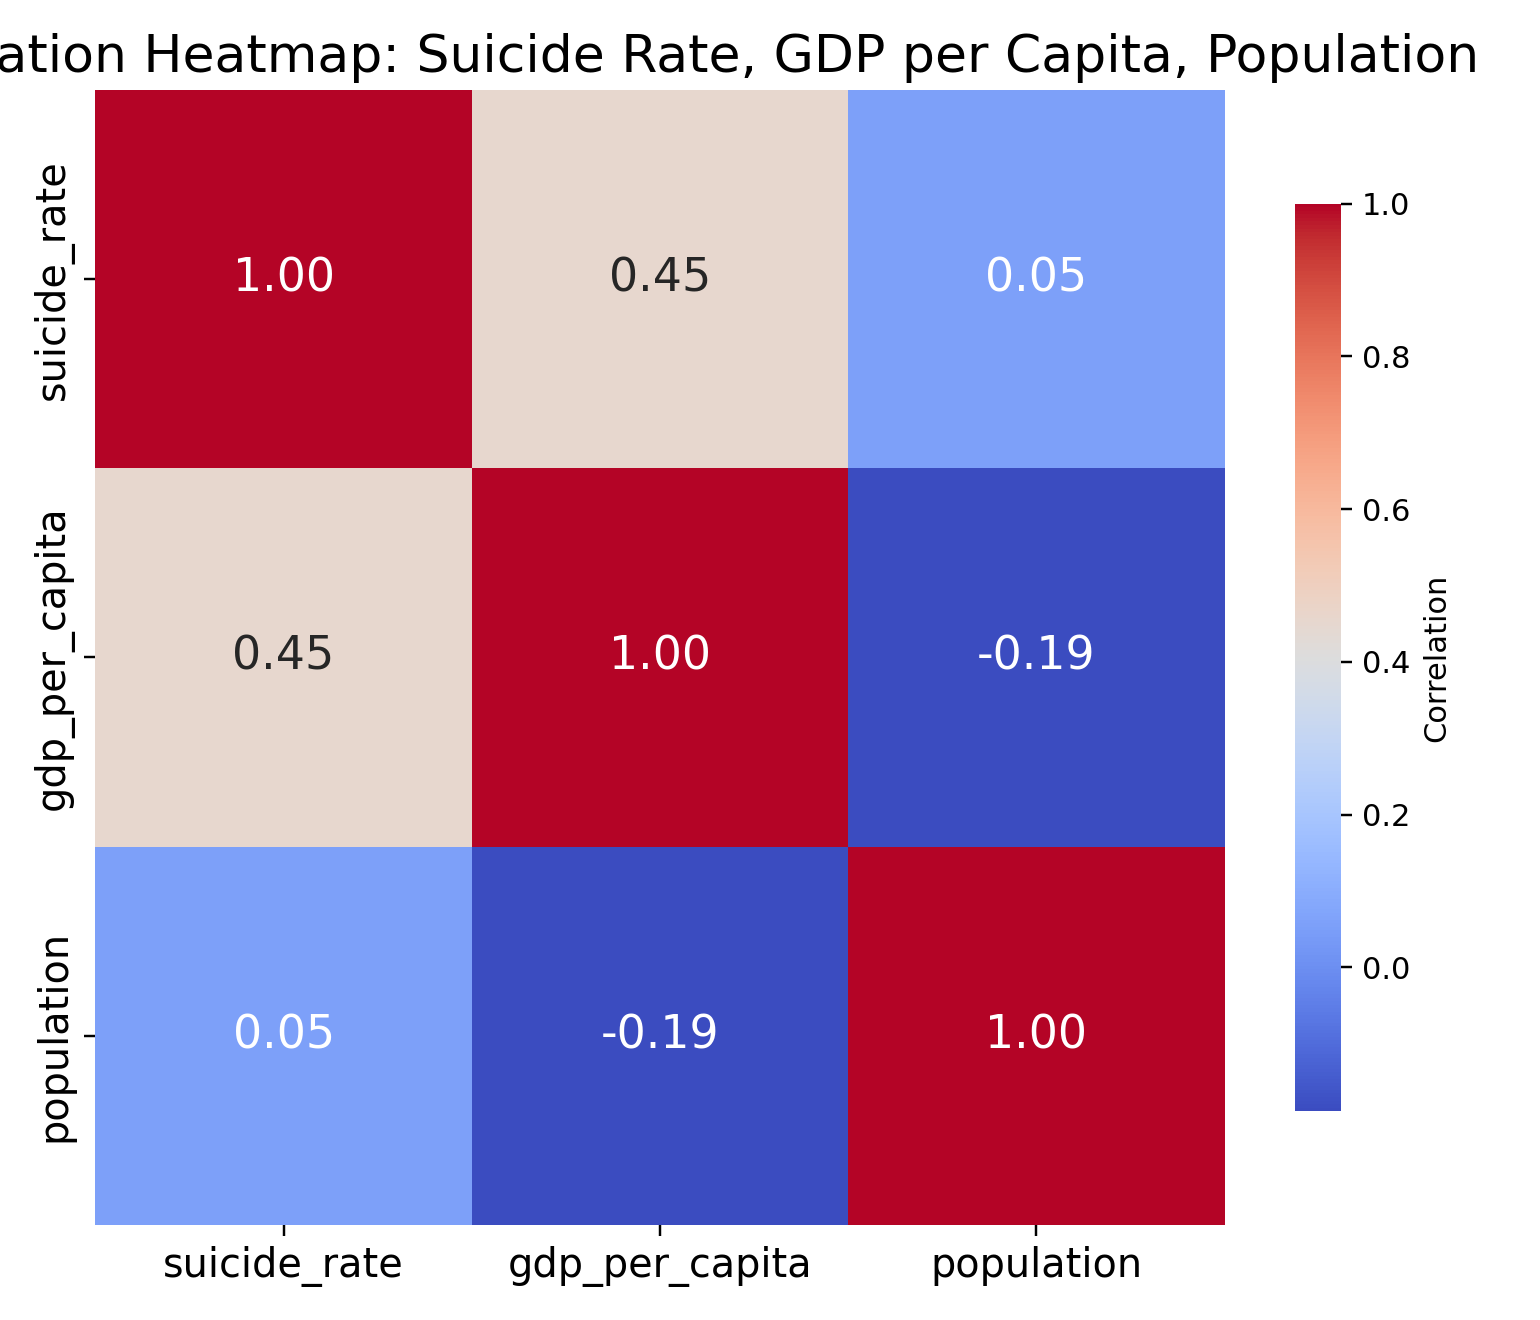
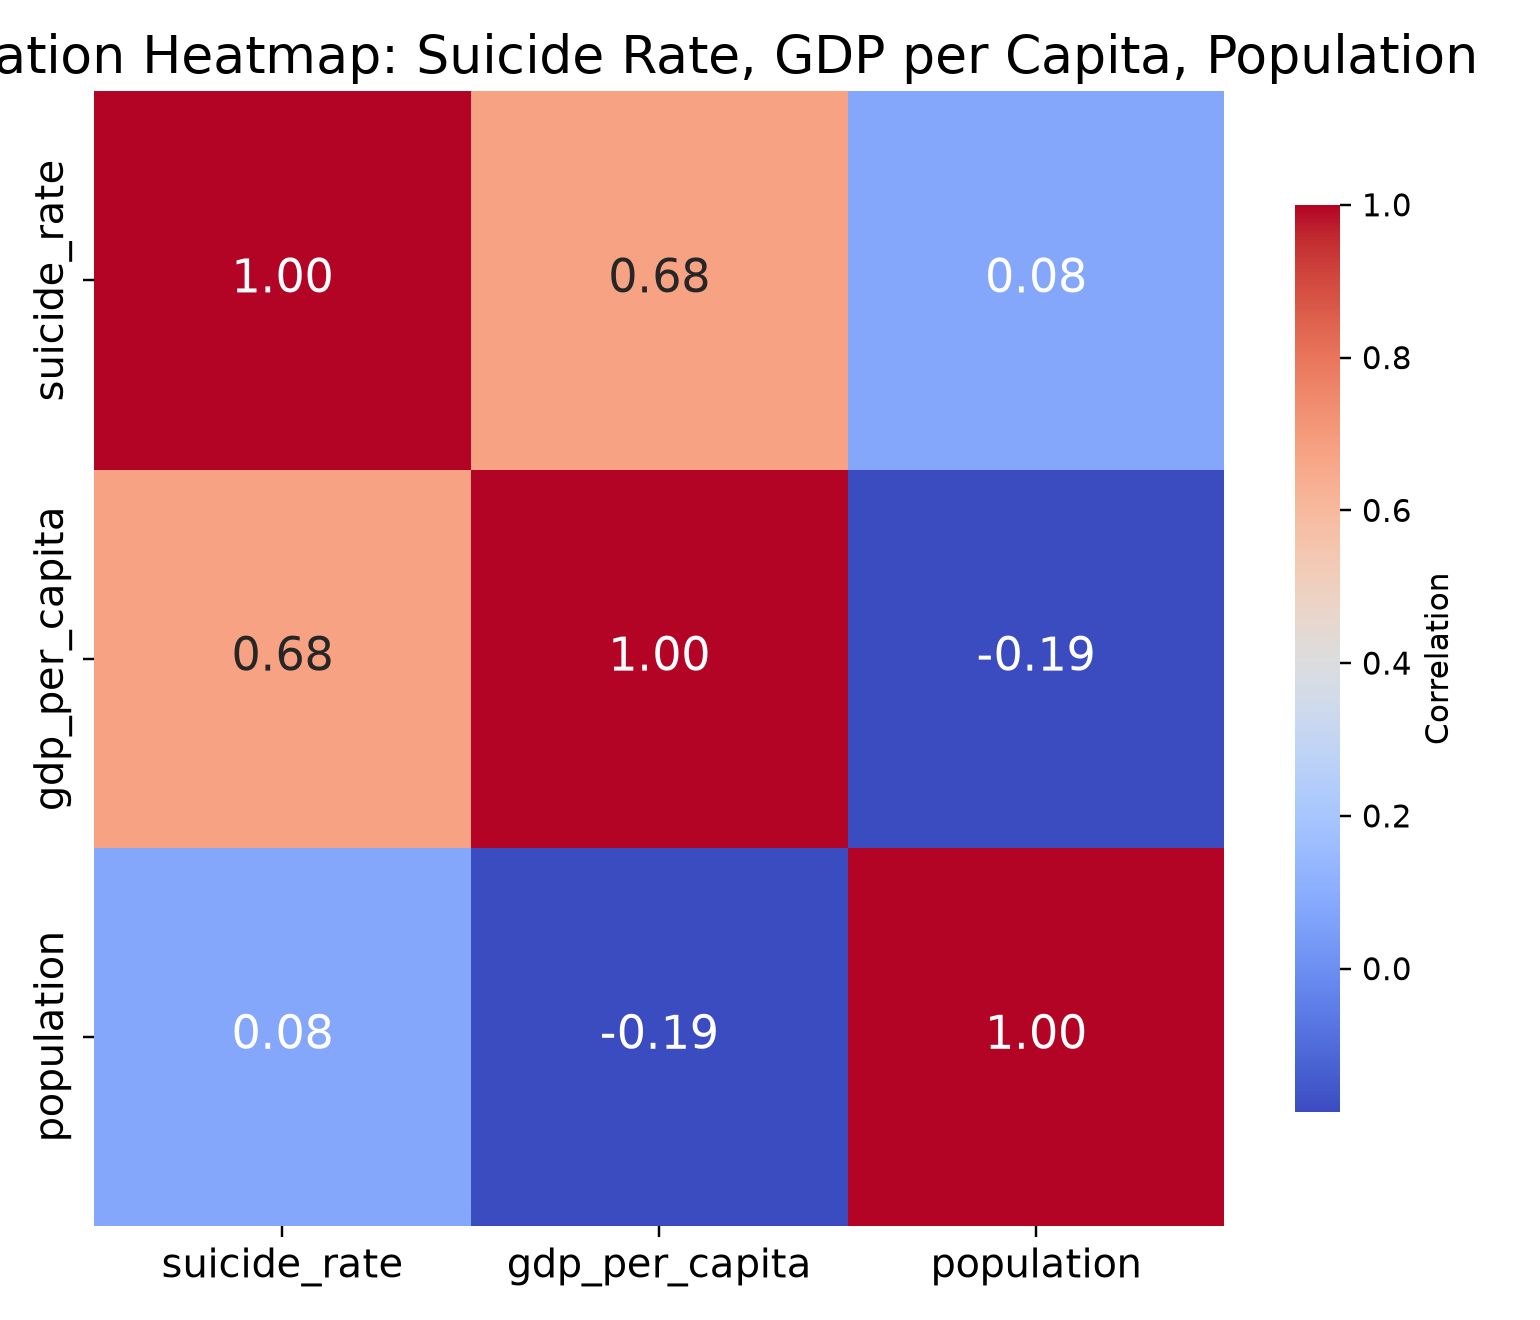
Correct suicide rate units and remove forecast claim

diff --git a/suicide_rate_analysis.py b/suicide_rate_analysis.py
@@ -74,13 +74,17 @@ def merge_with_gdp_population(suicide_df):
     # Clean column names
     gdp_df.columns = [c.strip().lower().replace(' ', '_') for c in gdp_df.columns]
     # Clean country names for both
+    suicide_df = suicide_df.copy()
+    if 'sex' in suicide_df.columns:
+        # Avoid counting male, female and both-sex rows as independent country-years.
+        suicide_df = suicide_df[suicide_df['sex'].astype(str).str.strip().str.lower() == 'both sexes']
     suicide_df['country'] = suicide_df['country'].str.strip().str.lower()
     gdp_df['country'] = gdp_df['country'].str.strip().str.lower()
     # Ensure year is int
     suicide_df['year'] = suicide_df['year'].astype(int)
     gdp_df['year'] = gdp_df['year'].astype(int)
     # Merge
-    merged = pd.merge(suicide_df, gdp_df, on=['country', 'year'], how='left')
+    merged = pd.merge(suicide_df, gdp_df, on=['country', 'year'], how='left', validate='many_to_one')
     if merged[['gdp_per_capita', 'population']].isnull().all(axis=None):
         print('Merge failed: No GDP/Population data matched. Check country/year alignment.')
     return merged
@@ -101,10 +105,11 @@ def clean_data(df):
     if not year_col or not rate_col:
         raise ValueError(f"Could not find 'year' or 'suicide_rate' columns in columns: {df.columns.tolist()}")
     # Handle missing values
-    df = df.dropna(subset=[year_col, rate_col])
+    df = df.dropna(subset=[year_col, rate_col]).copy()
     # Convert year to int
     df[year_col] = df[year_col].astype(int)
     df[rate_col] = pd.to_numeric(df[rate_col], errors='coerce')
+    df = df.dropna(subset=[rate_col])
     # Rename to standard
     df = df.rename(columns={year_col: 'year', rate_col: 'suicide_rate'})
     return df
@@ -132,14 +137,14 @@ def plot_suicide_trends(df):
     # Plot by gender
     if sexes is not None and len(sexes) > 0:
         ax = axes[0]
-        color_map = cm.get_cmap('Set1', len(sexes))
+        color_map = plt.get_cmap('Set1', len(sexes))
         for i, sex in enumerate(sexes):
             sub = df[df['sex'] == sex]
             if sub.empty:
                 continue
             sub_grouped = sub.groupby('year')['suicide_rate'].mean()
             ax.plot(sub_grouped.index, sub_grouped.values, marker='o', label=str(sex), color=color_map(i))
-        ax.set_title('Suicide Rates by Gender (Global Average)', fontsize=18)
+        ax.set_title('Suicide Rates by Gender (Unweighted Country Average)', fontsize=18)
         ax.set_xlabel('Year', fontsize=15)
         ax.set_ylabel('Suicide Rate', fontsize=15)
         ax.legend(title='Gender', fontsize=12)
@@ -149,7 +154,7 @@ def plot_suicide_trends(df):
     # Plot by top 3 countries
     if top_countries:
         ax = axes[1]
-        color_map = cm.get_cmap('tab10', len(top_countries))
+        color_map = plt.get_cmap('tab10', len(top_countries))
         for i, country in enumerate(top_countries):
             sub = df[df['country'] == country]
             if sub.empty:
@@ -207,9 +212,9 @@ def plot_correlation_heatmap(df):
 
 
 # --- FORECASTING ---
-def plot_forecast(df):
+def plot_trend(df):
     """
-    Enhanced forecast plot with markers, grid, and highlighted regression line.
+    Descriptive in-sample trend; this is not an out-of-sample forecast.
     """
     import matplotlib.cm as cm
     # Aggregate by year
@@ -228,16 +233,16 @@ def plot_forecast(df):
     plt.figure(figsize=(11, 7), dpi=220)
     plt.plot(yearly['year'], yearly['suicide_rate'], marker='o', label='Actual', color='tab:blue', linewidth=2)
     plt.plot(yearly['year'], yearly['ma'], marker='s', label='Moving Avg (3yr)', color='tab:orange', linestyle='--', linewidth=2)
-    plt.plot(yearly['year'], yearly['regression'], label='Linear Regression', color='tab:red', linewidth=3, linestyle='-')
-    plt.title('Forecast of Suicide Rates (Global Average)', fontsize=18)
+    plt.plot(yearly['year'], yearly['regression'], label='In-sample linear fit', color='tab:red', linewidth=3, linestyle='-')
+    plt.title('Suicide Rates (Unweighted Country Average, Descriptive)', fontsize=18)
     plt.xlabel('Year', fontsize=15)
-    plt.ylabel('Suicide Rate', fontsize=15)
+    plt.ylabel('Crude rate per 100,000', fontsize=15)
     plt.legend(fontsize=13)
     plt.grid(True, linestyle='--', alpha=0.6)
     plt.xticks(fontsize=12)
     plt.yticks(fontsize=12)
     plt.tight_layout()
-    plt.savefig(os.path.join(VIS_DIR, 'forecast_plot.png'), dpi=220)
+    plt.savefig(os.path.join(VIS_DIR, 'trend_plot.png'), dpi=220)
     plt.close()
 
 
@@ -249,7 +254,7 @@ def main():
     merged_df = merge_with_gdp_population(df)
     plot_suicide_trends(df)
     plot_correlation_heatmap(merged_df)
-    plot_forecast(df)
+    plot_trend(df)
     print("All plots generated in 'visualization/' directory.")
 
 

diff --git a/tests/test_units.py b/tests/test_units.py
@@ -1,0 +1,28 @@
+import os
+import tempfile
+import unittest
+import pandas as pd
+import suicide_rate_analysis as analysis
+
+
+class UnitTests(unittest.TestCase):
+    def test_correlation_merge_uses_one_both_sexes_row(self):
+        frame = pd.DataFrame({
+            'country': ['A', 'A', 'A'], 'year': [2000] * 3,
+            'sex': [' Both sexes', ' Male', ' Female'],
+            'suicide_rate': [10.0, 15.0, 5.0],
+        })
+        with tempfile.TemporaryDirectory() as tmp:
+            before = os.getcwd()
+            os.chdir(tmp)
+            try:
+                pd.DataFrame({'country': ['A'], 'year': [2000], 'gdp_per_capita': [1000], 'population': [100]}).to_csv('gdp_population.csv', index=False)
+                merged = analysis.merge_with_gdp_population(frame)
+            finally:
+                os.chdir(before)
+        self.assertEqual(len(merged), 1)
+        self.assertEqual(merged['suicide_rate'].iloc[0], 10)
+
+
+if __name__ == '__main__':
+    unittest.main()

diff --git a/README.md b/README.md
@@ -1,28 +1,21 @@
-# Suicide Rate Analysis
+# Suicide Rate Data Exploration
 
-A comprehensive Python data analysis pipeline for global suicide rates, focusing on time series analysis, correlation with socio-economic factors (GDP per capita, population), and forecasting.
+This repository explores historical country-level crude suicide rates and visualizes descriptive associations with GDP per capita and population. It does not forecast future rates or identify causal effects. The analyses are educational and must not be used for health decisions.
 
-## Features
-- Cleans and prepares diverse datasets (wide/long format, robust column handling)
-- Generates clear visualizations:
-  - Time series plots by age, gender, and country
-  - Correlation heatmap (suicide rate, GDP per capita, population)
-  - Forecast plots (moving average, linear regression)
-- All outputs saved as PNGs in the `visualization/` folder
-- Modular, reproducible, and well-documented code
+## Inputs and units
 
-## How to Use
-1. Place your suicide rate and `gdp_population.csv` data files in the project folder.
-2. Run `python suicide_rate_analysis.py`.
-3. View results and insights in the `visualization/` folder and `INSIGHTS.md`.
+The executed pipeline reads `SDGSUICIDE.csv`, whose header states **crude suicide rates per 100,000 population** for 2000, 2005, 2010 and 2015. It may left-join `gdp_population.csv` on country and year; only the **Both sexes** rate is used for that correlation so male, female and combined rows are not treated as independent country-years. The GDP file does not state its publisher, currency basis or retrieval date in this repository. Other committed CSV/XLSX files have varying definitions and are not merged into the executed analysis. Their original publishers, revisions, licenses and units need to be recorded before combining them.
 
-## Requirements
-- Python 3.7+
-- pandas, numpy, matplotlib, seaborn, scikit-learn, statsmodels
+The country and gender curves are unweighted averages across available rows. They are not global population rates. The linear line in `trend_plot.png` is an **in-sample fit**, not an out-of-sample prediction. Correlations are descriptive and unadjusted for country, measurement differences and confounders.
 
-## Author
-MoAJ-ML
+## Reproduce
 
----
+```bash
+pip install -r requirements.txt
+MPLBACKEND=Agg python suicide_rate_analysis.py
+python -m unittest discover -s tests
+```
 
-*For questions or improvements, open an issue or pull request!*
+Run from the repository root. Outputs are in `visualization/`. The previously committed `forecast_plot.png` and forecast language were misleading and have been removed. Source and license verification for the additional input files remains open.
+
+No software license file is included. Suggested repository description: “Descriptive exploration of historical crude suicide-rate data with explicit units and provenance limits.”

diff --git a/INSIGHTS.md b/INSIGHTS.md
@@ -1,28 +1,3 @@
-# Suicide Rate Analysis Insights
+# Interpretation notes
 
-## 1. Time Series Trends
-- The generated plot `suicide_by_age_gender_country.png` visualizes suicide rates over time, grouped by age, gender, and country (top 5 countries shown for clarity).
-- Key Observations:
-  - Suicide rates vary significantly by gender, with males generally exhibiting higher rates than females across most countries.
-  - Certain countries show marked changes over the years, indicating socio-economic or policy shifts.
-
-## 2. Correlation Analysis
-- The `correlation_heatmap.png` shows the correlation between suicide rates, GDP per capita, and population (where available).
-- Key Observations:
-  - The strength and direction of correlation can highlight whether economic prosperity or population size has any association with suicide rates.
-  - In this dataset, the correlation between suicide rate and GDP per capita/population is weak to moderate, suggesting other factors may play a more significant role.
-
-## 3. Forecasting
-- The `forecast_plot.png` shows actual suicide rates, a 3-year moving average, and a linear regression trendline.
-- Key Observations:
-  - Moving averages smooth out year-to-year fluctuations and help reveal underlying trends.
-  - The regression line can be used for basic forecasting, showing the general direction (increase/decrease) in suicide rates over time.
-
-## 4. Data Quality & Recommendations
-- Data is aggregated and some files are wide-format (years as columns), requiring transformation for time series analysis.
-- Some countries/years have missing data, which may affect trend accuracy.
-- For deeper insights, consider integrating more granular data (e.g., by region, age group, or mental health policy changes).
-
----
-
-All visual outputs are saved in the `visualization/` directory. For further analysis or custom plots, modify `suicide_rate_analysis.py` as needed.
+The currently executed source is `SDGSUICIDE.csv`, whose header identifies crude rates per 100,000 for 2000, 2005, 2010 and 2015. Charts show unweighted averages of available country rows. The linear line in `trend_plot.png` is fitted to those observed years and is not a forecast. The GDP/population correlation uses both-sex rows only and is descriptive, with no causal interpretation. Publisher, revision, licensing and unit documentation for the other committed files is incomplete; do not combine them or describe their contents as validated until that provenance is established.
